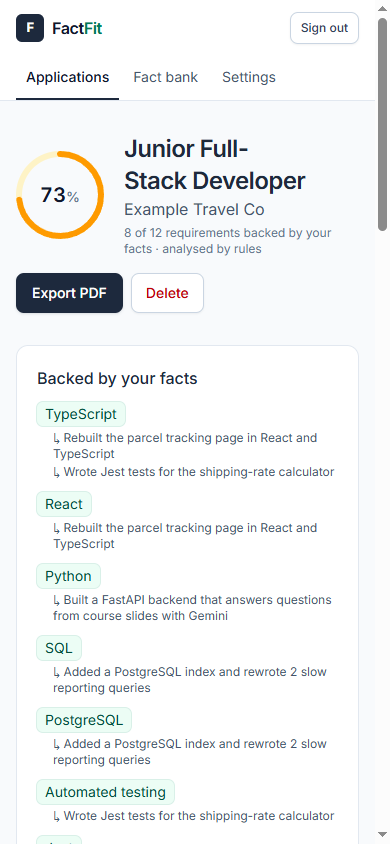
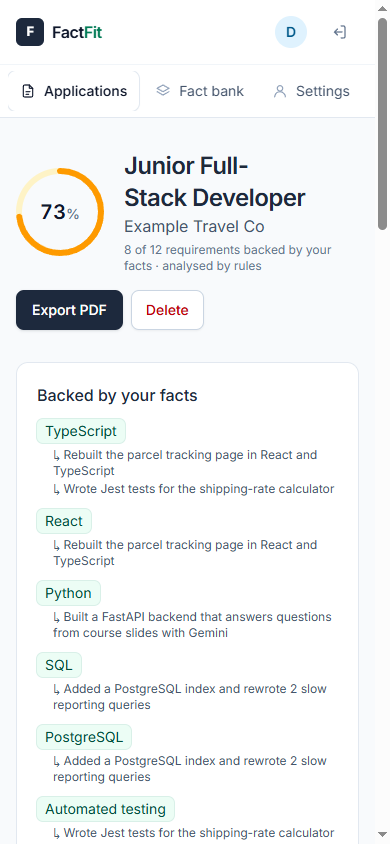
Move the app navigation from a sidebar to a centred top bar
Three sections did not need a 256px column. Logo left, sections centred,
account and sign-out right; on phones the sections take a second row and
the bar scrolls away. The bullet toolbar now sticks under the top bar.

diff --git a/src/app/app/layout.tsx b/src/app/app/layout.tsx
@@ -2,63 +2,54 @@ import Link from "next/link";
 import { requireUser } from "@/lib/auth";
 import { IconLogout } from "@/components/icons";
 import { signOutAction } from "./actions";
-import { SideNav, TopNav } from "./nav";
-
-function Logo() {
-  return (
-    <Link href="/app" className="inline-flex items-center gap-2 rounded-md font-semibold tracking-tight text-slate-900">
-      <span aria-hidden className="grid size-7 place-items-center rounded-md bg-slate-800 text-[13px] font-bold text-white">
-        F
-      </span>
-      <span>
-        Fact<span className="text-emerald-700">Fit</span>
-      </span>
-    </Link>
-  );
-}
+import { AppNav } from "./nav";
 
 export default async function AppLayout({ children }: LayoutProps<"/app">) {
   const user = await requireUser();
   const initial = (user.email[0] ?? "?").toUpperCase();
   return (
-    <div className="flex flex-1">
-      <aside className="sticky top-0 hidden h-dvh w-64 shrink-0 flex-col border-r border-slate-200 bg-white lg:flex">
-        <div className="flex h-16 items-center px-6">
-          <Logo />
-        </div>
-        <SideNav />
-        <div className="border-t border-slate-200 p-3">
-          <div className="flex items-center gap-3 rounded-lg p-2">
-            <span aria-hidden className="grid size-9 shrink-0 place-items-center rounded-full bg-sky-100 text-sm font-semibold text-sky-800">
-              {initial}
+    <div className="flex flex-1 flex-col">
+      {/* One top bar: logo left, the three sections centred, account right. On phones the
+          sections drop to their own row and the bar scrolls away to save height. */}
+      <header className="z-20 border-b border-slate-200 bg-white/95 backdrop-blur-sm md:sticky md:top-0">
+        <div className="mx-auto grid h-16 max-w-6xl grid-cols-[1fr_auto] items-center gap-4 px-4 sm:px-6 md:grid-cols-[1fr_auto_1fr]">
+          <Link href="/app" className="inline-flex items-center gap-2 justify-self-start rounded-md font-semibold tracking-tight text-slate-900">
+            <span aria-hidden className="grid size-7 place-items-center rounded-md bg-slate-800 text-[13px] font-bold text-white">
+              F
             </span>
-            <div className="min-w-0 flex-1">
-              <p className="truncate text-sm font-medium text-slate-900">{user.email}</p>
-              <Link href="/app/settings" className="text-xs text-slate-500 hover:text-slate-800">
-                Account settings
-              </Link>
-            </div>
+            <span>
+              Fact<span className="text-emerald-700">Fit</span>
+            </span>
+          </Link>
+
+          <div className="hidden md:block">
+            <AppNav />
+          </div>
+
+          <div className="flex items-center gap-1 justify-self-end">
+            <Link
+              href="/app/settings"
+              aria-label={`Account settings for ${user.email}`}
+              title={user.email}
+              className="flex min-h-10 items-center gap-2 rounded-lg px-2 hover:bg-slate-50"
+            >
+              <span aria-hidden className="grid size-8 place-items-center rounded-full bg-sky-100 text-sm font-semibold text-sky-800">
+                {initial}
+              </span>
+              <span className="hidden max-w-[14rem] truncate text-sm text-slate-700 lg:inline">{user.email}</span>
+            </Link>
             <form action={signOutAction}>
-              <button className="btn-ghost size-9 text-slate-500" aria-label="Sign out">
+              <button className="btn-ghost size-10 text-slate-500" aria-label="Sign out" title="Sign out">
                 <IconLogout />
               </button>
             </form>
           </div>
         </div>
-      </aside>
-
-      <div className="flex min-w-0 flex-1 flex-col">
-        <header className="border-b border-slate-200 bg-white lg:hidden">
-          <div className="flex h-14 items-center justify-between px-4">
-            <Logo />
-            <form action={signOutAction}>
-              <button className="btn btn-sm">Sign out</button>
-            </form>
-          </div>
-          <TopNav />
-        </header>
-        <main className="mx-auto w-full max-w-5xl flex-1 px-4 py-8 sm:px-8 sm:py-10">{children}</main>
-      </div>
+        <div className="border-t border-slate-100 px-2 py-1.5 md:hidden">
+          <AppNav />
+        </div>
+      </header>
+      <main className="mx-auto w-full max-w-5xl flex-1 px-4 py-8 sm:px-8 sm:py-10">{children}</main>
     </div>
   );
 }

diff --git a/src/app/app/nav.tsx b/src/app/app/nav.tsx
@@ -4,81 +4,43 @@ import Link from "next/link";
 import { usePathname } from "next/navigation";
 import { IconFile, IconLayers, IconUser } from "@/components/icons";
 
-type NavItem = { href: string; label: string; icon: typeof IconFile };
-
-const groups: { label: string; items: NavItem[] }[] = [
-  {
-    label: "Workspace",
-    items: [
-      { href: "/app", label: "Applications", icon: IconFile },
-      { href: "/app/facts", label: "Fact bank", icon: IconLayers },
-    ],
-  },
-  {
-    label: "Account",
-    items: [{ href: "/app/settings", label: "Settings", icon: IconUser }],
-  },
-]
+const items = [
+  { href: "/app", label: "Applications", icon: IconFile },
+  { href: "/app/facts", label: "Fact bank", icon: IconLayers },
+  { href: "/app/settings", label: "Settings", icon: IconUser },
+];
 
 function isActive(path: string, href: string) {
   if (href === "/app") return path === "/app" || path.startsWith("/app/applications");
   return path.startsWith(href);
 }
 
-/** Sidebar navigation on large screens. */
-export function SideNav() {
+/** The three app sections, centred in the top bar (a scrollable row on phones). */
+export function AppNav() {
   const path = usePathname();
   return (
-    <nav aria-label="Main" className="flex-1 space-y-6 overflow-y-auto px-3 py-4">
-      {groups.map((g) => (
-        <div key={g.label}>
-          <p className="px-3 pb-2 text-xs font-medium tracking-wide text-slate-500 uppercase">{g.label}</p>
-          <ul className="space-y-0.5">
-            {g.items.map(({ href, label, icon: Icon }) => {
-              const active = isActive(path, href);
-              return (
-                <li key={href}>
-                  <Link
-                    href={href}
-                    aria-current={active ? "page" : undefined}
-                    className={`flex min-h-10 items-center gap-3 rounded-lg px-3 text-sm transition-colors duration-150 ${
-                      active ? "bg-slate-100 font-medium text-slate-900" : "text-slate-600 hover:bg-slate-50 hover:text-slate-900"
-                    }`}
-                  >
-                    <Icon className={active ? "text-slate-900" : "text-slate-400"} />
-                    {label}
-                  </Link>
-                </li>
-              );
-            })}
-          </ul>
-        </div>
-      ))}
-    </nav>
-  );
-}
-
-/** The same links as a scrollable row under the top bar on small screens. */
-export function TopNav() {
-  const path = usePathname();
-  const items = groups.flatMap((g) => g.items);
-  return (
-    <nav aria-label="Main" className="flex gap-1 overflow-x-auto overflow-y-hidden px-4 [scrollbar-width:none]">
-      {items.map(({ href, label }) => {
-        const active = isActive(path, href);
-        return (
-          <Link
-            key={href}
-            href={href}
-            aria-current={active ? "page" : undefined}
-            className={`inline-flex min-h-11 shrink-0 items-center border-b-2 px-2.5 text-sm transition-colors duration-150 ${
-              active ? "border-slate-800 font-medium text-slate-900" : "border-transparent text-slate-600 hover:text-slate-900"
-            }`}
-          >
-            {label}
-          </Link>
-        );
-      })}
+    <nav aria-label="Main" className="overflow-x-auto overflow-y-hidden [scrollbar-width:none]">
+      <ul className="flex gap-1 md:rounded-xl md:bg-slate-100 md:p-1">
+        {items.map(({ href, label, icon: Icon }) => {
+          const active = isActive(path, href);
+          return (
+            <li key={href} className="shrink-0">
+              <Link
+                href={href}
+                aria-current={active ? "page" : undefined}
+                className={`flex min-h-10 items-center gap-2 rounded-lg px-3 text-sm transition-colors duration-150 ${
+                  active
+                    ? "bg-white font-medium text-slate-900 shadow-xs ring-1 ring-slate-200 md:ring-0"
+                    : "text-slate-600 hover:bg-white/70 hover:text-slate-900"
+                }`}
+              >
+                <Icon size={16} className={active ? "text-slate-900" : "text-slate-400"} />
+                {label}
+              </Link>
+            </li>
+          );
+        })}
+      </ul>
     </nav>
   );
 }

diff --git a/src/app/app/applications/[id]/bullet-studio.tsx b/src/app/app/applications/[id]/bullet-studio.tsx
@@ -98,7 +98,7 @@ export function BulletStudio({ applicationId, experiences, facts, initialBullets
 
   return (
     <section aria-labelledby="bullets-heading" className="space-y-4">
-      <div className="z-[5] sm:sticky sm:top-0 -mx-4 flex flex-wrap items-center gap-3 border-b border-slate-200/80 bg-slate-50/95 px-4 py-3 backdrop-blur-sm sm:-mx-6 sm:px-6">
+      <div className="z-[5] md:sticky md:top-16 -mx-4 flex flex-wrap items-center gap-3 border-b border-slate-200/80 bg-slate-50/95 px-4 py-3 backdrop-blur-sm sm:-mx-6 sm:px-6">
         <div className="mr-auto min-w-0">
           <h2 id="bullets-heading" className="text-lg font-semibold tracking-tight">
             Bullets for this job

diff --git a/src/app/globals.css b/src/app/globals.css
@@ -18,7 +18,12 @@
 }
 
 html {
-  scroll-padding-top: 5rem; /* the bullet toolbar is sticky */
+  scroll-padding-top: 1rem;
+}
+@media (min-width: 768px) {
+  html {
+    scroll-padding-top: 9rem; /* sticky top bar + bullet toolbar */
+  }
 }
 
 body {
